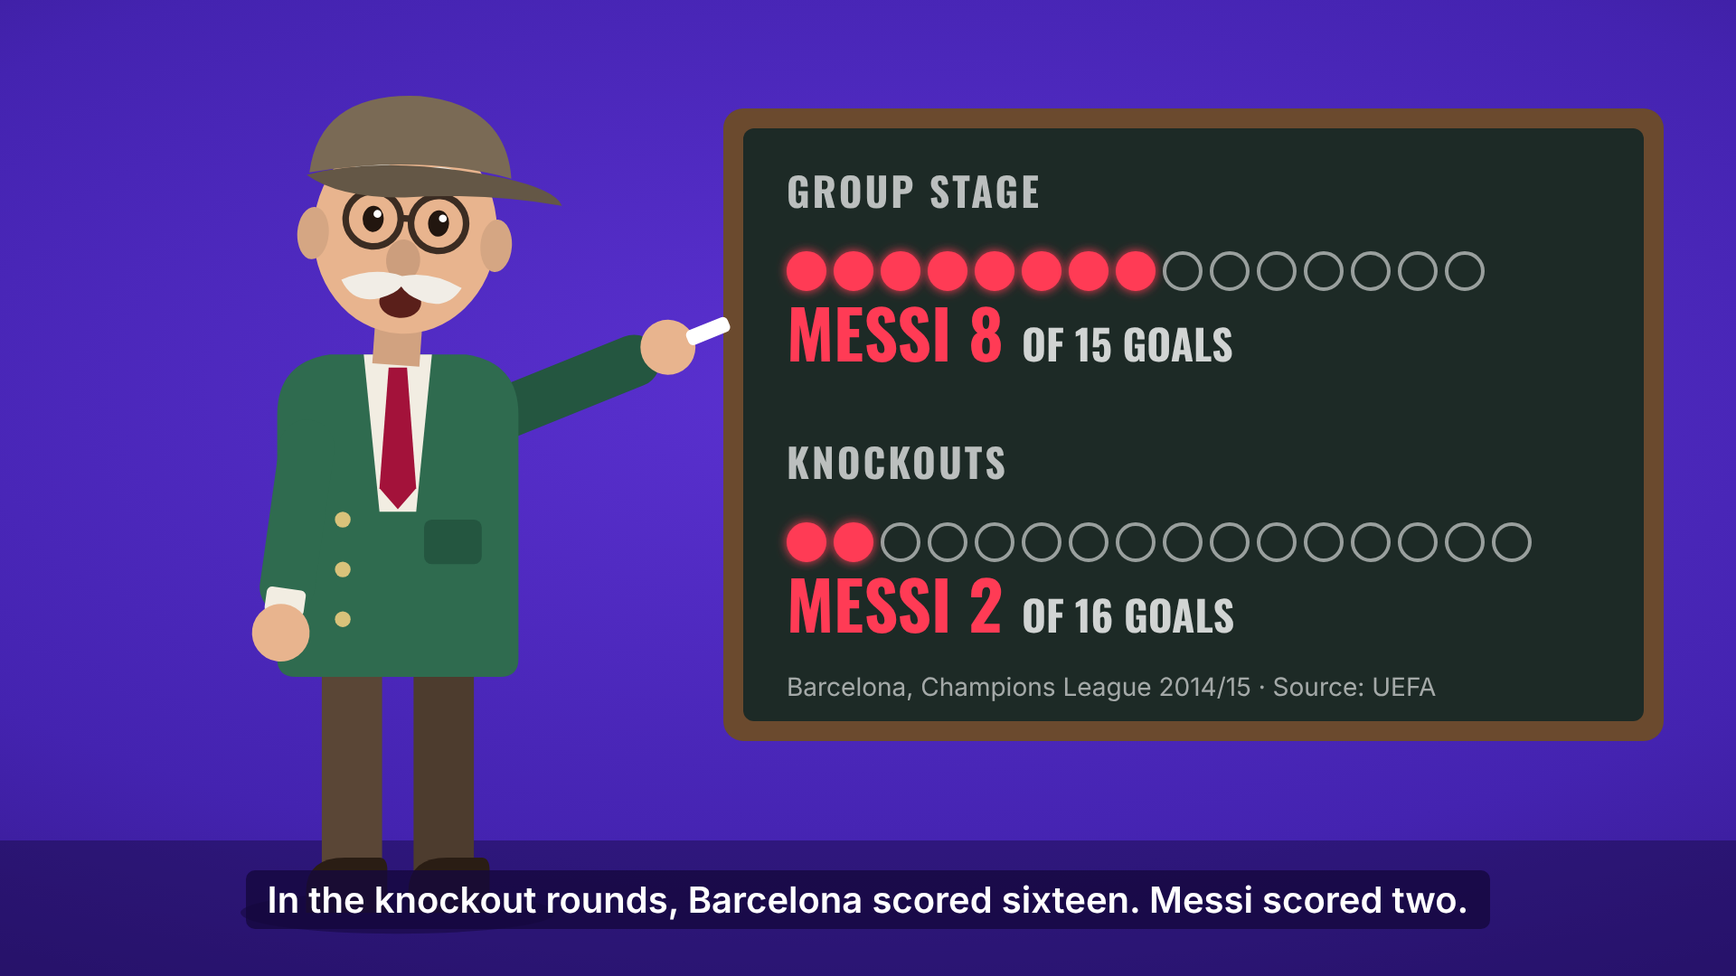
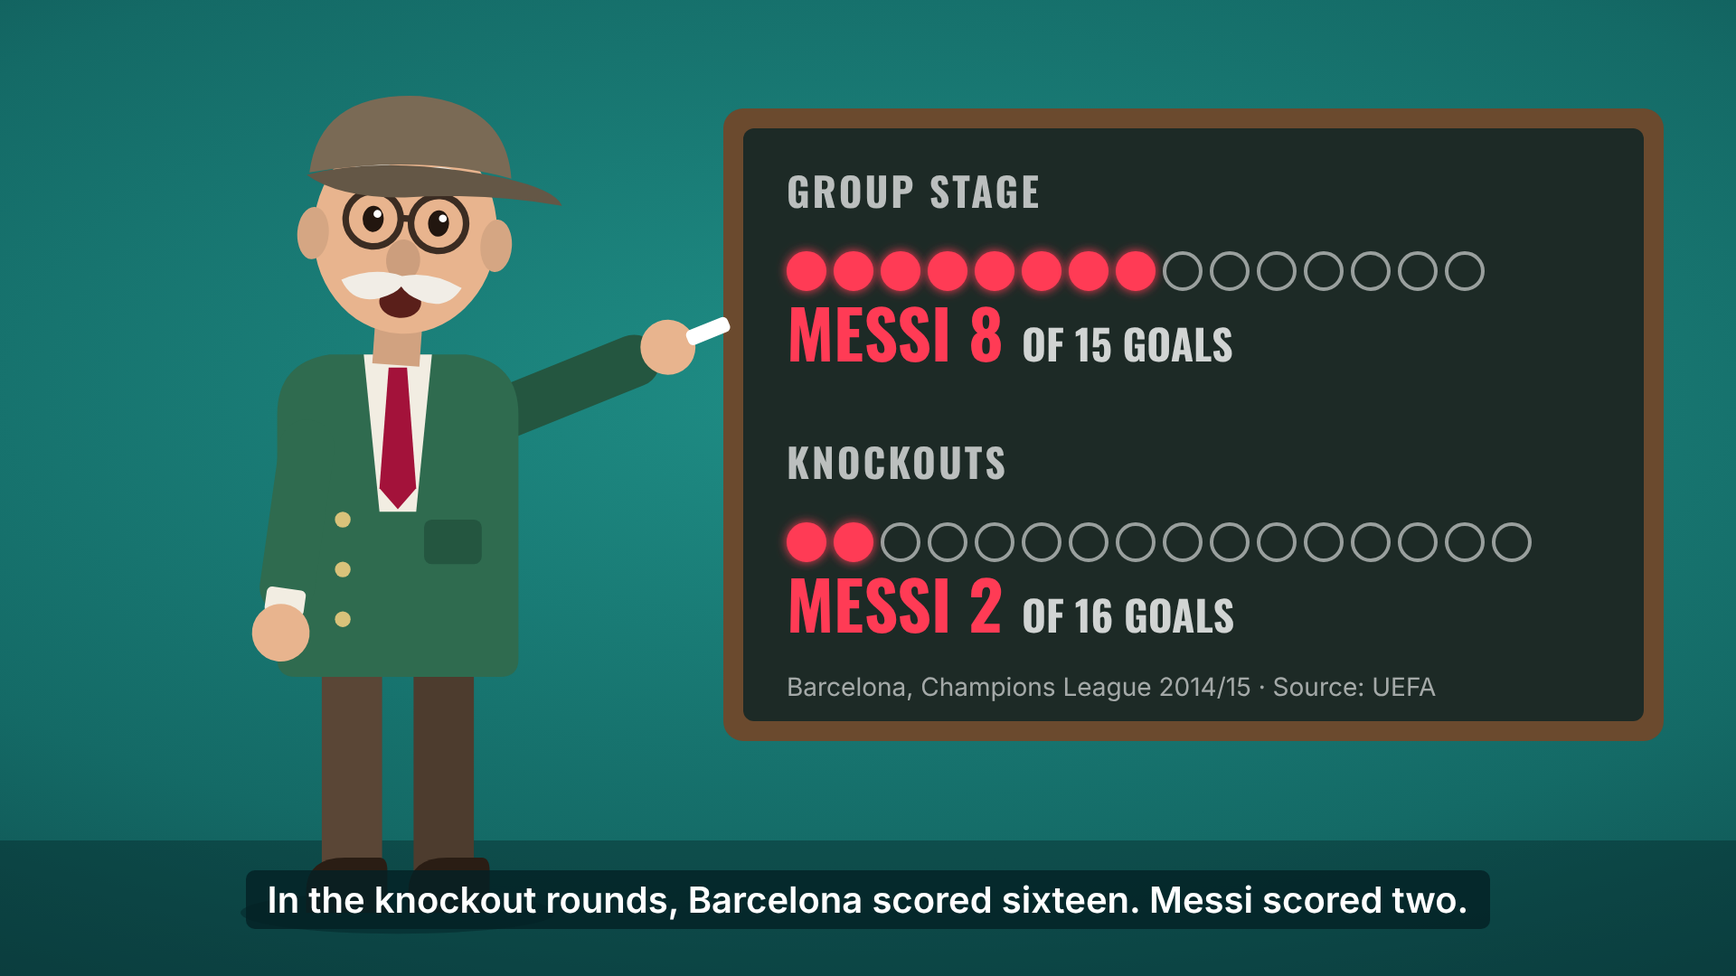
Story film: new player figures, teal background, new test stills
Claude-Session: https://claude.ai/code/session_01KmjVAbYkvjFzJbZXgmHt2s

diff --git a/episodes/01-barcelona-2014-15/story/assets/story.js b/episodes/01-barcelona-2014-15/story/assets/story.js
@@ -86,81 +86,119 @@
     GKB: { shirt: "#c9f227", shirt2: "#c9f227", shorts: "#c9f227", socks: "#c9f227", boots: "#111" },
     GKJ: { shirt: "#ffb020", shirt2: "#ffb020", shorts: "#ffb020", socks: "#ffb020", boots: "#111" },
   };
-  const SKIN = "#c4865f", HAIR = "#24170f";
+  const SKIN = "#b97a55", HAIR = "#1f140d";
 
-  // angles in degrees from straight down; positive swings towards the way the player faces
+  // angles in degrees from straight down; positive swings towards the way the player faces.
+  // t = thigh, s = knee bend (added to the thigh for the shin), a = upper arm, f = elbow bend; F = near side, B = far side.
   const POSES = {
-    stand:   { hip: 50, lean: 2,   tF: 4,  sF: 0,   tB: -4,  sB: 0,   aF: 8,   fF: 18,  aB: -10, fB: 8,   rot: 0 },
-    ready:   { hip: 46, lean: 14,  tF: 14, sF: -12, tB: -12, sB: -26, aF: 22,  fF: 60,  aB: -22, fB: 30,  rot: 0 },
-    run1:    { hip: 48, lean: 16,  tF: 42, sF: -6,  tB: -30, sB: -78, aF: -38, fF: 30,  aB: 40,  fB: 100, rot: 0 },
-    run2:    { hip: 48, lean: 16,  tF: -30, sF: -78, tB: 42, sB: -6, aF: 40,  fF: 100, aB: -38, fB: 30,  rot: 0 },
-    dribble: { hip: 46, lean: 20,  tF: 30, sF: 8,   tB: -22, sB: -60, aF: -30, fF: 20,  aB: 46,  fB: 90,  rot: 0 },
-    kick:    { hip: 49, lean: -10, tF: 70, sF: 82,  tB: -6,  sB: -4,  aF: -70, fF: -40, aB: 80,  fB: 70,  rot: 0 },
-    wind:    { hip: 49, lean: 6,   tF: -40, sF: -100, tB: 6, sB: 0,   aF: 60,  fF: 80,  aB: -60, fB: -20, rot: 0 },
-    slide:   { hip: 16, lean: -58, tF: 84, sF: 92,  tB: 40,  sB: -50, aF: -130, fF: -120, aB: 70, fB: 60,  rot: 0 },
-    stretch: { hip: 40, lean: -8,  tF: 58, sF: 50,  tB: -20, sB: -30, aF: 40,  fF: 60,  aB: -40, fB: -10, rot: 0 },
-    dive:    { hip: 34, lean: 0,   tF: 10, sF: 4,   tB: -12, sB: -20, aF: 175, fF: 178, aB: 160, fB: 170, rot: 78 },
-    joy:     { hip: 52, lean: -4,  tF: 6,  sF: 0,   tB: -18, sB: -40, aF: 160, fF: 170, aB: -160, fB: -170, rot: 0 },
+    stand:   { lean: 3,   tF: 6,   sF: -6,  tB: -5,  sB: -2,   aF: 10,   fF: 16,  aB: -8,   fB: 14 },
+    ready:   { lean: 20,  tF: 24,  sF: -30, tB: -18, sB: -22,  aF: 34,   fF: 40,  aB: -34,  fB: 34 },
+    run1:    { lean: 16,  tF: 58,  sF: -40, tB: -26, sB: -88,  aF: -48,  fF: 86,  aB: 52,   fB: 84 },
+    run2:    { lean: 16,  tF: -26, sF: -88, tB: 58,  sB: -40,  aF: 52,   fF: 84,  aB: -48,  fB: 86 },
+    dribble: { lean: 24,  tF: 44,  sF: -24, tB: -32, sB: -74,  aF: -40,  fF: 64,  aB: 58,   fB: 70 },
+    wind:    { lean: 10,  tF: -38, sF: -96, tB: 8,   sB: -6,   aF: 72,   fF: 30,  aB: -64,  fB: 14 },
+    kick:    { lean: -16, tF: 96,  sF: -4,  tB: -4,  sB: -10,  aF: -112, fF: 30,  aB: 86,   fB: 22 },
+    stretch: { lean: -2,  tF: 74,  sF: 18,  tB: -42, sB: 12,   aF: 52,   fF: 30,  aB: -60,  fB: 10 },
+    slide:   { lean: -48, tF: 84,  sF: 6,   tB: 70,  sB: -150, aF: -150, fF: 10,  aB: 70,   fB: 40 },
+    dive:    { lean: 0,   tF: 12,  sF: -8,  tB: -14, sB: -22,  aF: 172,  fF: 4,   aB: 158,  fB: 10, rot: 82, air: 26 },
+    joy:     { lean: -6,  tF: 22,  sF: -44, tB: -10, sB: -6,   aF: 160,  fF: 12,  aB: -158, fB: -14 },
   };
 
   function seg(x, y, len, ang, dir) {
     const a = ang * Math.PI / 180;
     return [x + Math.sin(a) * len * dir, y + Math.cos(a) * len];
   }
-  function ln(a, b, c, w) {
-    return `<line x1="${a[0].toFixed(1)}" y1="${a[1].toFixed(1)}" x2="${b[0].toFixed(1)}" y2="${b[1].toFixed(1)}" stroke="${c}" stroke-width="${w}" stroke-linecap="round"/>`;
-  }
+  const lerp = (a, b, t) => [a[0] + (b[0] - a[0]) * t, a[1] + (b[1] - a[1]) * t];
   function shade(hex, k) {
     const n = parseInt(hex.slice(1), 16);
-    const r = Math.round(((n >> 16) & 255) * k), g = Math.round(((n >> 8) & 255) * k), b = Math.round((n & 255) * k);
+    const r = Math.min(255, Math.round(((n >> 16) & 255) * k)), g = Math.min(255, Math.round(((n >> 8) & 255) * k)), b = Math.min(255, Math.round((n & 255) * k));
     return "#" + ((1 << 24) + (r << 16) + (g << 8) + b).toString(16).slice(1);
   }
-  // The figure in its own frame: feet at y=0, about 100 units tall, facing +x when dir = 1.
+  // a tapered limb: a capsule from a (radius r1) to b (radius r2)
+  function capsule(a, b, r1, r2) {
+    const dx = b[0] - a[0], dy = b[1] - a[1], l = Math.hypot(dx, dy) || 0.001;
+    const ux = dx / l, uy = dy / l, nx = -uy, ny = ux;
+    const f = (v) => v.toFixed(2);
+    return `M ${f(a[0] + nx * r1)} ${f(a[1] + ny * r1)} L ${f(b[0] + nx * r2)} ${f(b[1] + ny * r2)} ` +
+           `A ${f(r2)} ${f(r2)} 0 0 0 ${f(b[0] - nx * r2)} ${f(b[1] - ny * r2)} L ${f(a[0] - nx * r1)} ${f(a[1] - ny * r1)} ` +
+           `A ${f(r1)} ${f(r1)} 0 0 0 ${f(a[0] + nx * r1)} ${f(a[1] + ny * r1)} Z`;
+  }
+  let FIG = 0;
+  // The figure in its own frame: feet on y = 0, about 104 units tall, facing +x when dir = 1.
   function figureInner(pose, kit, dir, num) {
     const P = typeof pose === "string" ? POSES[pose] : pose;
     const K = KITS[kit] || kit;
-    const hip = [0, -P.hip];
-    const neck = seg(hip[0], hip[1], -34, -P.lean, dir); // up the torso
-    const head = seg(neck[0], neck[1], -12, -P.lean, dir);
-    const shoulder = seg(hip[0], hip[1], -30, -P.lean, dir);
-    const out = [];
+    const id = "fg" + (FIG++);
+    const hip = [0, -50];
+    const tor = (len) => seg(hip[0], hip[1], -len, -P.lean, dir);
+    const neck = tor(32), chest = tor(18), shoulder = tor(25), headC = tor(40);
+    const out = [], pts = [];
+    const fill = (d, c) => out.push(`<path d="${d}" fill="${c}"/>`);
+    const soft = (d, c, edge) => out.push(`<path d="${d}" fill="${c}" stroke="${edge || c}" stroke-width="1.6" stroke-linejoin="round"/>`);
+    const poly = (ps) => "M " + ps.map(q => q[0].toFixed(2) + " " + q[1].toFixed(2)).join(" L ") + " Z";
+    const perp = (a, b) => { const dx = b[0] - a[0], dy = b[1] - a[1], l = Math.hypot(dx, dy) || 1; return [-dy / l, dx / l]; };
+    const off = (q, n, r) => [q[0] + n[0] * r, q[1] + n[1] * r];
     const leg = (t, s, back) => {
-      const k1 = seg(hip[0], hip[1], 25, t, dir), f = seg(k1[0], k1[1], 25, t + s, dir);
-      const mid = [hip[0] + (k1[0] - hip[0]) * 0.55, hip[1] + (k1[1] - hip[1]) * 0.55];
-      const sh = back ? 0.72 : 1;
-      out.push(ln(hip, mid, shade(K.shorts, sh), 18));
-      out.push(ln(mid, k1, shade(SKIN, sh), 13));
-      const sk = [k1[0] + (f[0] - k1[0]) * 0.25, k1[1] + (f[1] - k1[1]) * 0.25];
-      out.push(ln(k1, sk, shade(SKIN, sh), 12));
-      out.push(ln(sk, f, shade(K.socks, sh), 12));
-      const toe = seg(f[0], f[1], 9, t + s + 90, dir);
-      out.push(ln(f, toe, shade(K.boots, 1), 9));
+      const knee = seg(hip[0], hip[1], 26, t, dir), ankle = seg(knee[0], knee[1], 25, t + s, dir);
+      const toe = seg(ankle[0], ankle[1], 10, t + s + 92, dir), heel = seg(ankle[0], ankle[1], 3, t + s - 90, dir);
+      pts.push(ankle, toe, heel);
+      const k = back ? 0.74 : 1;
+      const calf = lerp(knee, ankle, 0.32), sock = lerp(knee, ankle, 0.16);
+      fill(capsule(hip, knee, 7.8, 5.7), shade(SKIN, k));                 // thigh
+      fill(capsule(knee, calf, 6.0, 6.4), shade(SKIN, k));                // knee to calf
+      fill(capsule(sock, calf, 6.1, 6.6) + capsule(calf, ankle, 6.6, 3.9), shade(K.socks, k)); // sock over the calf
+      fill(capsule(heel, toe, 4.6, 3.4), shade(K.boots, back ? 1 : 1.6)); // boot
+      { // shorts leg: a loose trapezoid from the waist to mid-thigh
+        const w = tor(4), L = lerp(hip, knee, 0.46), n = perp(w, hip), m = perp(hip, knee);
+        soft(poly([off(w, n, 8.4), off(L, m, 8.4), off(L, m, -8.4), off(w, n, -8.4)]), shade(K.shorts, k));
+      }
     };
     const arm = (u, fo, back) => {
-      const e = seg(shoulder[0], shoulder[1], 17, u, dir), h = seg(e[0], e[1], 16, u + fo, dir);
-      const sl = [shoulder[0] + (e[0] - shoulder[0]) * 0.6, shoulder[1] + (e[1] - shoulder[1]) * 0.6];
-      const sh = back ? 0.72 : 1;
-      out.push(ln(shoulder, sl, shade(K.shirt, sh), 12));
-      out.push(ln(sl, e, shade(SKIN, sh), 10));
-      out.push(ln(e, h, shade(SKIN, sh), 9));
+      const elbow = seg(shoulder[0], shoulder[1], 17, u, dir), hand = seg(elbow[0], elbow[1], 16, u + fo, dir);
+      pts.push(hand);
+      const k = back ? 0.74 : 1;
+      fill(capsule(shoulder, elbow, 4.9, 4.1) + capsule(elbow, hand, 4.0, 3.2), shade(SKIN, k));
+      out.push(`<circle cx="${hand[0].toFixed(2)}" cy="${hand[1].toFixed(2)}" r="3.8" fill="${shade(SKIN, k)}"/>`);
+      soft(capsule(shoulder, lerp(shoulder, elbow, 0.42), 5.2, 4.8), shade(K.shirt, back ? 0.8 : 0.93), shade(K.shirt, back ? 0.62 : 0.8)); // short sleeve
     };
     arm(P.aB, P.fB, true);
     leg(P.tB, P.sB, true);
-    // torso: a tapered stroke, with a second-colour stripe for striped kits
-    out.push(ln(hip, neck, K.shirt, 28));
+    // pelvis and torso, with stripes clipped to the shirt
+    const tn = perp(shoulder, hip), waist = tor(3), top = tor(27.5);
+    const torsoD = poly([off(waist, tn, 9.2), off(chest, tn, 11.2), off(shoulder, tn, 10.6), off(top, tn, 6), off(top, tn, -6), off(shoulder, tn, -10.6), off(chest, tn, -11.2), off(waist, tn, -9.2)]);
+    
+    soft(poly([off(tor(6), tn, 9.4), off(tor(-5), tn, 9.8), off(tor(-5), tn, -9.8), off(tor(6), tn, -9.4)]), K.shorts); // waistband to hips
+    out.push(`<clipPath id="${id}c"><path d="${torsoD}"/></clipPath>`);
+    soft(torsoD, K.shirt);
     if (K.shirt2 !== K.shirt) {
-      const m1 = [hip[0] + (neck[0] - hip[0]) * 0.1, hip[1] + (neck[1] - hip[1]) * 0.1];
-      const m2 = [hip[0] + (neck[0] - hip[0]) * 0.9, hip[1] + (neck[1] - hip[1]) * 0.9];
-      out.push(ln([m1[0] + 5 * dir, m1[1]], [m2[0] + 5 * dir, m2[1]], K.shirt2, 6));
-      out.push(ln([m1[0] - 5 * dir, m1[1]], [m2[0] - 5 * dir, m2[1]], K.shirt2, 6));
+      const offs = kit === "JUV" ? [-9, -1.5, 6] : [-6.5, 5];
+      const w = kit === "JUV" ? 4.2 : 5.6;
+      const a0 = tor(-4), a1 = tor(36);
+      const nx = (a1[1] - a0[1]), ny = -(a1[0] - a0[0]), nl = Math.hypot(nx, ny);
+      let st = "";
+      for (const o of offs) st += `<line x1="${(a0[0] + nx / nl * o).toFixed(2)}" y1="${(a0[1] + ny / nl * o).toFixed(2)}" x2="${(a1[0] + nx / nl * o).toFixed(2)}" y2="${(a1[1] + ny / nl * o).toFixed(2)}" stroke="${K.shirt2}" stroke-width="${w}"/>`;
+      out.push(`<g clip-path="url(#${id}c)">${st}</g>`);
     }
+    // a soft shadow down the back of the shirt
+    const b0 = seg(hip[0], hip[1], 9, -P.lean - 90, dir), b1 = seg(shoulder[0], shoulder[1], 9, -P.lean - 90, dir);
+    out.push(`<g clip-path="url(#${id}c)"><line x1="${b0[0].toFixed(2)}" y1="${b0[1].toFixed(2)}" x2="${b1[0].toFixed(2)}" y2="${b1[1].toFixed(2)}" stroke="rgba(0,0,0,.22)" stroke-width="8"/></g>`);
+    if (num) out.push(`<text x="${chest[0].toFixed(1)}" y="${(chest[1] + 4).toFixed(1)}" text-anchor="middle" font-family="Oswald" font-weight="700" font-size="11" fill="${K.shirt2}">${num}</text>`);
     leg(P.tF, P.sF, false);
+    // neck and head: no face, just shape, an ear and hair
+    fill(capsule(shoulder, neck, 4.4, 4.0), shade(SKIN, 0.9));
+    const ang = (-P.lean) * dir;
+    out.push(`<g transform="rotate(${ang.toFixed(1)} ${headC[0].toFixed(2)} ${headC[1].toFixed(2)})">` +
+      `<ellipse cx="${headC[0].toFixed(2)}" cy="${headC[1].toFixed(2)}" rx="6.6" ry="7.8" fill="${SKIN}"/>` +
+      `<path d="M ${(headC[0] - 6.9 * dir).toFixed(2)} ${(headC[1] + 3).toFixed(2)} C ${(headC[0] - 8.2 * dir).toFixed(2)} ${(headC[1] - 6).toFixed(2)} ${(headC[0] - 4 * dir).toFixed(2)} ${(headC[1] - 9.4).toFixed(2)} ${(headC[0] + 1.5 * dir).toFixed(2)} ${(headC[1] - 8.5).toFixed(2)} C ${(headC[0] + 6.5 * dir).toFixed(2)} ${(headC[1] - 9).toFixed(2)} ${(headC[0] + 7.3 * dir).toFixed(2)} ${(headC[1] - 5).toFixed(2)} ${(headC[0] + 6.6 * dir).toFixed(2)} ${(headC[1] - 2.6).toFixed(2)} C ${(headC[0] + 3 * dir).toFixed(2)} ${(headC[1] - 5.4).toFixed(2)} ${(headC[0] - 2 * dir).toFixed(2)} ${(headC[1] - 4).toFixed(2)} ${(headC[0] - 3.4 * dir).toFixed(2)} ${(headC[1] + 2).toFixed(2)} Z" fill="${HAIR}"/>` +
+      `<ellipse cx="${(headC[0] - 2.6 * dir).toFixed(2)}" cy="${(headC[1] + 1.4).toFixed(2)}" rx="1.6" ry="2.3" fill="${shade(SKIN, 0.82)}"/></g>`);
     arm(P.aF, P.fF, false);
-    out.push(`<circle cx="${head[0].toFixed(1)}" cy="${head[1].toFixed(1)}" r="10" fill="${SKIN}"/>`);
-    out.push(`<path d="M ${(head[0] - 10).toFixed(1)} ${(head[1] - 1).toFixed(1)} a 10 10 0 0 1 20 0 q -10 -5 -20 0 Z" fill="${HAIR}"/>`);
-    if (num) out.push(`<text x="${neck[0].toFixed(1)}" y="${(neck[1] + 20).toFixed(1)}" text-anchor="middle" font-family="Oswald" font-weight="700" font-size="12" fill="${K.shirt2}">${num}</text>`);
-    const rot = P.rot ? ` rotate(${P.rot * dir} 0 ${-P.hip})` : "";
-    return `<g transform="translate(0 0)${rot}">${out.join("")}</g>`;
+    // stand on the ground: the lowest foot touches y = 0 (or hang in the air for a dive)
+    let low = -1e9;
+    for (const p of pts) low = Math.max(low, p[1]);
+    let dy = -low;
+    const rot = P.rot ? ` rotate(${P.rot * dir} ${hip[0]} ${hip[1]})` : "";
+    if (P.rot) dy = 50 - (P.air || 0) - 12;
+    return `<g transform="translate(0 ${dy.toFixed(2)})${rot}">${out.join("")}</g>`;
   }
   // a player standing at pitch point (x, y): scaled for depth, with a soft shadow
   function player(cam, x, y, pose, kit, dir, opt) {
@@ -168,14 +206,14 @@
     const [sx, sy, k] = cam.p(x, y, 0);
     const s = k * 2.0 / 100 * (opt.scale || 1); // 100 figure units = 2 yards
     const lift = opt.lift ? opt.lift * k : 0;
-    const shadow = `<ellipse cx="${sx.toFixed(1)}" cy="${sy.toFixed(1)}" rx="${(26 * s).toFixed(1)}" ry="${(7 * s).toFixed(1)}" fill="rgba(10,0,30,.35)"/>`;
+    const shadow = `<ellipse cx="${sx.toFixed(1)}" cy="${sy.toFixed(1)}" rx="${(24 * s).toFixed(1)}" ry="${(6 * s).toFixed(1)}" fill="rgba(0,20,25,.35)"/>`;
     return shadow + `<g transform="translate(${sx.toFixed(1)} ${(sy - lift).toFixed(1)}) scale(${s.toFixed(3)})">${figureInner(pose, kit, dir, opt.num)}</g>`;
   }
   function ball(cam, x, y, z) {
     const [sx, sy, k] = cam.p(x, y, z || 0.12);
     const [gx, gy] = cam.p(x, y, 0);
     const r = Math.max(4, k * 0.12);
-    return `<ellipse cx="${gx.toFixed(1)}" cy="${gy.toFixed(1)}" rx="${(r * 1.1).toFixed(1)}" ry="${(r * 0.35).toFixed(1)}" fill="rgba(10,0,30,.35)"/>` +
+    return `<ellipse cx="${gx.toFixed(1)}" cy="${gy.toFixed(1)}" rx="${(r * 1.1).toFixed(1)}" ry="${(r * 0.35).toFixed(1)}" fill="rgba(0,20,25,.35)"/>` +
            `<circle cx="${sx.toFixed(1)}" cy="${sy.toFixed(1)}" r="${r.toFixed(1)}" fill="#fff" stroke="#111" stroke-width="${(r * 0.18).toFixed(1)}"/>` +
            `<circle cx="${sx.toFixed(1)}" cy="${sy.toFixed(1)}" r="${(r * 0.38).toFixed(1)}" fill="#111"/>`;
   }
@@ -185,7 +223,7 @@
     const w = 22 + name.length * 15.5;
     const col = team === "JUV" ? "#f4f4f2" : "#ff3b55";
     return `<g transform="translate(${sx.toFixed(1)} ${(sy - 16).toFixed(1)})">` +
-           `<rect x="${-w / 2}" y="-44" width="${w}" height="42" rx="21" fill="rgba(20,8,60,.85)" stroke="${col}" stroke-width="3"/>` +
+           `<rect x="${-w / 2}" y="-44" width="${w}" height="42" rx="21" fill="rgba(4,32,36,.88)" stroke="${col}" stroke-width="3"/>` +
            `<text x="0" y="-15" text-anchor="middle" font-family="Inter" font-weight="700" font-size="26" fill="#fff">${name}</text>` +
            `<path d="M -7 -2 L 0 8 L 7 -2 Z" fill="${col}"/></g>`;
   }
@@ -205,7 +243,7 @@
     opt = opt || {};
     const coat = "#2f6b4f", coat2 = "#245640", shirt = "#f2ede2", trouser = "#5a4636", cap = "#7a6a55", skin = "#e8b48e";
     return `<g id="${id}">
-      <ellipse cx="0" cy="0" rx="120" ry="16" fill="rgba(10,0,30,.35)"/>
+      <ellipse cx="0" cy="0" rx="120" ry="16" fill="rgba(0,20,25,.35)"/>
       <!-- legs and boots -->
       <g id="${id}-legs">
         <rect x="-58" y="-200" width="46" height="190" rx="18" fill="${trouser}"/>

diff --git a/episodes/01-barcelona-2014-15/story/stills/stills.html b/episodes/01-barcelona-2014-15/story/stills/stills.html
@@ -3,14 +3,14 @@
 <link href="https://fonts.googleapis.com/css2?family=Oswald:wght@700&family=Inter:wght@400;600;700&display=swap" rel="stylesheet">
 <style>
   * { margin: 0; padding: 0; box-sizing: border-box; }
-  body { width: 1920px; height: 1080px; overflow: hidden; background: #3d1f9c; font-family: Inter, sans-serif; color: #fff; }
-  .bg { position: absolute; inset: 0; background: radial-gradient(120% 90% at 50% 40%, #5b31d1 0%, #4423b0 55%, #2a1272 100%); }
+  body { width: 1920px; height: 1080px; overflow: hidden; background: #146a66; font-family: Inter, sans-serif; color: #fff; }
+  .bg { position: absolute; inset: 0; background: radial-gradient(120% 90% at 50% 40%, #1f8e86 0%, #146a66 55%, #0a3a3d 100%); }
   .oswald { font-family: Oswald, sans-serif; font-weight: 700; }
-  .recon { position: absolute; left: 60px; top: 48px; font: 700 28px Inter; padding: 8px 18px; border: 3px solid #ff3b55; border-radius: 8px; background: rgba(20,8,60,.6); }
+  .recon { position: absolute; left: 60px; top: 48px; font: 700 28px Inter; padding: 8px 18px; border: 3px solid #ff3b55; border-radius: 8px; background: rgba(4,32,36,.6); }
   .src { position: absolute; font: 400 28px Inter; color: rgba(255,255,255,.75); }
   .cap { position: absolute; left: 0; right: 0; bottom: 52px; text-align: center; }
-  .cap span { display: inline-block; font: 600 40px Inter; background: rgba(20,8,60,.78); padding: 8px 24px; border-radius: 10px; }
-  .score { position: absolute; right: 60px; top: 44px; font-size: 46px; background: rgba(20,8,60,.8); padding: 6px 20px; border-radius: 10px; }
+  .cap span { display: inline-block; font: 600 40px Inter; background: rgba(4,32,36,.8); padding: 8px 24px; border-radius: 10px; }
+  .score { position: absolute; right: 60px; top: 44px; font-size: 46px; background: rgba(4,32,36,.82); padding: 6px 20px; border-radius: 10px; }
 </style>
 <script src="../assets/story.js"></script>
 </head><body>
@@ -35,7 +35,7 @@ fetch("../data/film_data.json").then(r => r.json()).then(D => {
       return o;
     };
     svg.innerHTML = `<defs><filter id="glow" x="-50%" y="-50%" width="200%" height="200%"><feGaussianBlur stdDeviation="6" result="b"/><feMerge><feMergeNode in="b"/><feMergeNode in="SourceGraphic"/></feMerge></filter></defs>
-      <rect x="0" y="930" width="1920" height="150" fill="rgba(20,8,60,.45)"/>
+      <rect x="0" y="930" width="1920" height="150" fill="rgba(4,32,36,.4)"/>
       <rect x="800" y="120" width="1040" height="700" rx="22" fill="#6b4a2e"/>
       <rect x="822" y="142" width="996" height="656" rx="12" fill="#1d2a26"/>
       <text x="870" y="230" font-family="Oswald" font-weight="700" font-size="44" fill="rgba(255,255,255,.7)" letter-spacing="3">GROUP STAGE</text>
@@ -65,7 +65,7 @@ fetch("../data/film_data.json").then(r => r.json()).then(D => {
     }
     const [rx, ry] = shot.from;
     items.push({ x: rx, y: ry, svg: S.player(cam, rx, ry, "kick", "BAR", facing(cam, rx, ry, 120, 40)), name: "Rakitić", team: "BAR" });
-    items.sort((a, b) => cam.p(b.x, b.y)[2] - cam.p(a.x, a.y)[2]); // far first
+    items.sort((a, b) => cam.p(a.x, a.y)[2] - cam.p(b.x, b.y)[2]); // far first
     const bx = rx + (shot.to[0] - rx) * 0.45, by = ry + (shot.to[1] - ry) * 0.45;
     svg.innerHTML = S.pitchSVG(cam) +
       S.groundArrow(cam, D.goals["4'"][5].from, D.goals["4'"][5].to, "rgba(255,255,255,.9)") +
@@ -79,7 +79,7 @@ fetch("../data/film_data.json").then(r => r.json()).then(D => {
   }
   if (which === "3") {
     // close-up: Messi goes past Barzagli, 68 minutes
-    const cam = new S.Camera({ ex: 92.5, ey: 41, ez: 3.4, tx: 98.6, ty: 30, tz: 0.9, fov: 1900, cy: 560 });
+    const cam = new S.Camera({ ex: 94.2, ey: 38.6, ez: 2.6, tx: 98.4, ty: 29.8, tz: 0.9, fov: 2000, cy: 560 });
     const shot = D.goals["68'"].find(s => s.kind === "shot" && s.player === "Messi");
     const parts = [];
     for (const f of shot.freeze) {
@@ -90,13 +90,44 @@ fetch("../data/film_data.json").then(r => r.json()).then(D => {
     }
     parts.push({ x: 97, y: 28.6, s: S.player(cam, 97, 28.6, "stretch", "JUV", facing(cam, 97, 28.6, 99, 31)) });
     parts.push({ x: 98.6, y: 30.4, s: S.player(cam, 98.6, 30.4, "dribble", "BAR", facing(cam, 98, 30, 110, 34)) });
-    parts.sort((a, b) => cam.p(b.x, b.y)[2] - cam.p(a.x, a.y)[2]);
+    parts.sort((a, b) => cam.p(a.x, a.y)[2] - cam.p(b.x, b.y)[2]);
     svg.innerHTML = S.pitchSVG(cam) + S.groundArrow(cam, [80, 34], [98.4, 30.3], "#ff3b55") + parts.map(p => p.s).join("") + S.ball(cam, 99.6, 30.9) +
       S.nameTag(cam, 98.6, 30.4, "Messi", "BAR", 2.6) + S.nameTag(cam, 97, 28.6, "Barzagli", "JUV", 2.6);
     html.innerHTML = `<div class="recon">Reconstruction · positions and poses illustrative</div>
       <div class="src" style="left:62px;top:112px">Data: StatsBomb open data</div>
       <div class="score oswald">JUV 1-1 BAR · 68'</div>
       <div class="cap"><span>He carried it nearly forty yards and went past Barzagli.</span></div>`;
+  }
+  if (which === "4") {
+    // close-up: Rakitić strikes, 4 minutes (StatsBomb shot location; poses illustrative)
+    const cam = new S.Camera({ ex: 109.5, ey: 49, ez: 2.2, tx: 114.5, ty: 38.4, tz: 0.9, fov: 2300, cy: 560 });
+    const shot = D.goals["4'"].slice(-1)[0];
+    const parts = [];
+    for (const f of shot.freeze) {
+      const [x, y] = f.loc;
+      if (x < 108 || cam.p(x, y)[2] > 260 || (f.name !== "Buffon" && Math.hypot(x - 112, y - 38) < 4)) continue;
+      const kit = f.name === "Buffon" ? "GKJ" : (f.teammate ? "BAR" : "JUV");
+      const pose = f.name === "Buffon" ? "ready" : (f.teammate ? "run2" : "ready");
+      parts.push({ x, y, s: S.player(cam, x, y, pose, kit, facing(cam, x, y, f.teammate ? 120 : 112, f.teammate ? 40 : 38)) });
+    }
+    parts.push({ x: 112, y: 38, s: S.player(cam, 112, 38, "kick", "BAR", facing(cam, 112, 38, 120, 41.7)) });
+    parts.sort((a, b) => cam.p(a.x, a.y)[2] - cam.p(b.x, b.y)[2]);
+    svg.innerHTML = S.pitchSVG(cam) + parts.map(p => p.s).join("") + S.ball(cam, 113.1, 38.5, 0.45) + S.nameTag(cam, 112, 38, "Rakitić", "BAR", 2.5);
+    html.innerHTML = `<div class="recon">Reconstruction · positions and poses illustrative</div>
+      <div class="src" style="left:62px;top:112px">Data: StatsBomb open data</div>
+      <div class="score oswald">JUV 0-0 BAR · 4'</div>
+      <div class="cap"><span>Iniesta found Rakitić. One-nil.</span></div>`;
+  }
+  if (which === "5") {
+    // the player figures, every pose, large
+    const poses = ["stand", "ready", "run1", "run2", "dribble", "wind", "kick", "stretch", "slide", "dive", "joy"];
+    let o = "";
+    poses.forEach((p, i) => {
+      const x = 130 + (i % 6) * 300, y = i < 6 ? 470 : 960, kit = p === "dive" ? "GKJ" : (i % 2 ? "JUV" : "BAR");
+      o += `<ellipse cx="${x}" cy="${y}" rx="70" ry="14" fill="rgba(0,20,25,.35)"/><g transform="translate(${x} ${y}) scale(3.4)">${S.figureInner(p, kit, 1)}</g>` +
+           `<text x="${x}" y="${y + 50}" text-anchor="middle" font-family="Inter" font-size="26" fill="rgba(255,255,255,.7)">${p}</text>`;
+    });
+    svg.innerHTML = o;
   }
   document.fonts.ready.then(() => document.body.setAttribute("data-ready", "1"));
 });

diff --git a/episodes/01-barcelona-2014-15/story/STORY.md b/episodes/01-barcelona-2014-15/story/STORY.md
@@ -16,7 +16,7 @@ like a bedtime story, in the first person. He is fiction; everything he tells is
 
 ## The look
 
-- **Background**: a bold violet (`#4423b0` to `#5b31d1`), as you asked, following your reference clip.
+- **Background**: a deep teal (`#1f8e86` to `#0a3a3d`), changed from violet at your request.
 - **The pitch**: white lines in perspective, seen from an angled camera that moves with the play: wide for the
   build-up, then a cut in close for the moment that matters (a shot, a save, a player beaten).
 - **Players**: flat illustrated figures with posable limbs (run, dribble, kick, stretch, dive, celebrate).
